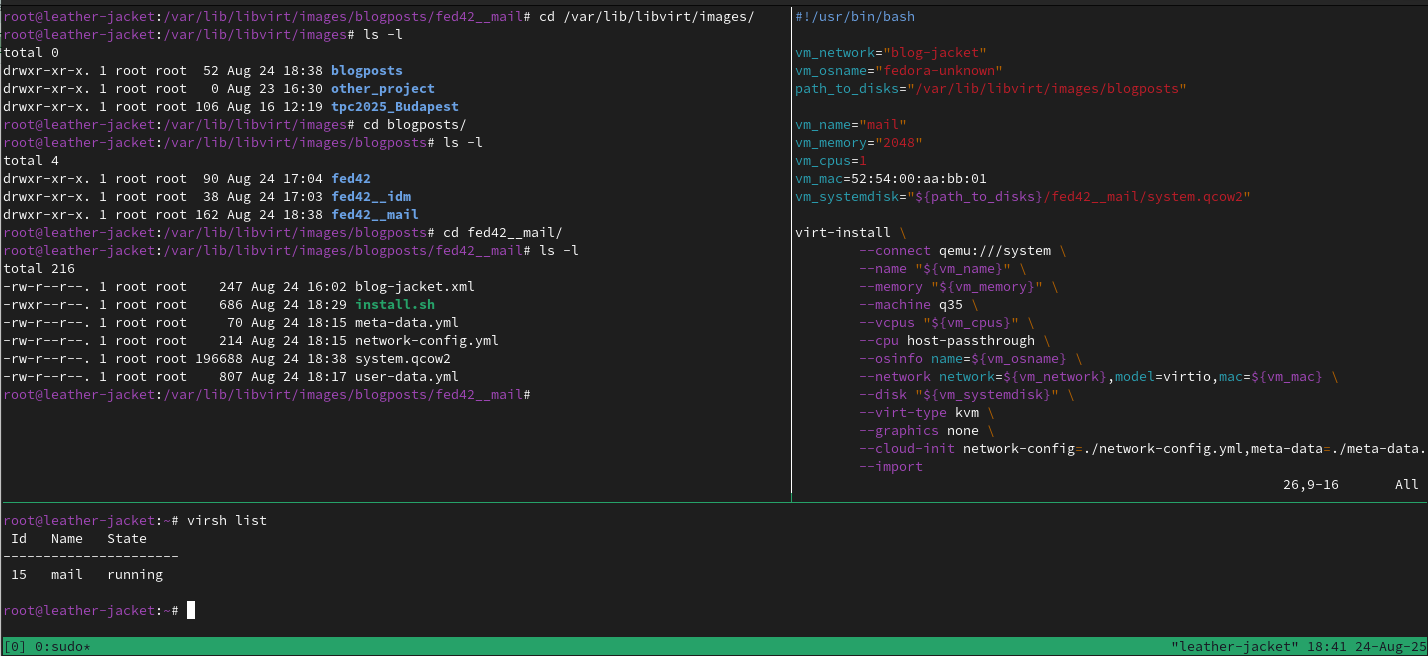
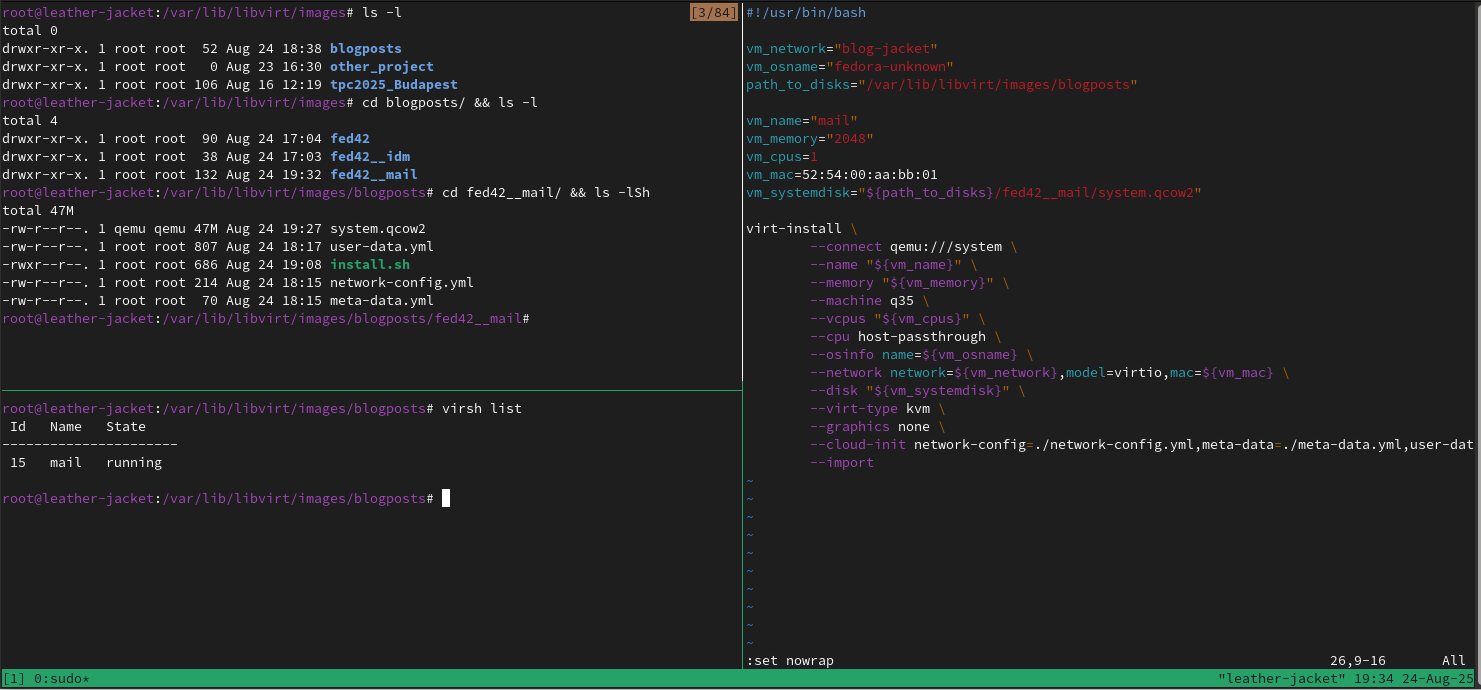
fix images and parag about network

diff --git a/posts/bare_libvirtd/index.html b/posts/bare_libvirtd/index.html
@@ -216,7 +216,24 @@ to accomplish so, looks like the following:</p>
 </span></span><span class="line"><span class="cl">virsh net-autostart blog-jacket
 </span></span></code></pre></div></li>
 </ol>
-<h4 id="create-a-new-virtual-machine">create a new virtual machine</h4>
+<p>I want to be in control of each virtual machine&rsquo;s IP address, and this
+is doable in a number of ways, either with DHCP reservations based on MAC address
+inside the libvirt network&rsquo;s definition, or by just claiming static IP
+addresses inside the virtual machine&rsquo;s network stack.</p>
+<p>We can do either since we are in control of both the MAC address and
+first boot parameters that influence the network configuration.</p>
+<p>My blog-jacket.xml file looks like the following:</p>
+<div class="highlight"><pre tabindex="0" class="chroma"><code class="language-xml" data-lang="xml"><span class="line"><span class="cl"><span class="nt">&lt;network&gt;</span>
+</span></span><span class="line"><span class="cl">  <span class="nt">&lt;name&gt;</span>blog-jacket<span class="nt">&lt;/name&gt;</span>
+</span></span><span class="line"><span class="cl">  <span class="nt">&lt;forward</span> <span class="na">mode=</span><span class="s">&#39;nat&#39;</span><span class="nt">&gt;</span>
+</span></span><span class="line"><span class="cl">    <span class="nt">&lt;nat&gt;</span>
+</span></span><span class="line"><span class="cl">      <span class="nt">&lt;port</span> <span class="na">start=</span><span class="s">&#39;1024&#39;</span> <span class="na">end=</span><span class="s">&#39;65535&#39;</span><span class="nt">/&gt;</span>
+</span></span><span class="line"><span class="cl">    <span class="nt">&lt;/nat&gt;</span>
+</span></span><span class="line"><span class="cl">  <span class="nt">&lt;/forward&gt;</span>
+</span></span><span class="line"><span class="cl">  <span class="nt">&lt;bridge</span> <span class="na">name=</span><span class="s">&#39;virbr2&#39;</span> <span class="na">stp=</span><span class="s">&#39;on&#39;</span> <span class="na">delay=</span><span class="s">&#39;0&#39;</span><span class="nt">/&gt;</span>
+</span></span><span class="line"><span class="cl">  <span class="nt">&lt;ip</span> <span class="na">address=</span><span class="s">&#39;192.168.126.1&#39;</span> <span class="na">netmask=</span><span class="s">&#39;255.255.255.0&#39;</span> <span class="nt">/&gt;</span>
+</span></span><span class="line"><span class="cl"><span class="nt">&lt;/network&gt;</span>
+</span></span></code></pre></div><h4 id="create-a-new-virtual-machine">create a new virtual machine</h4>
 <p>We&rsquo;re starting from the point where you have a qcow2 disk for your operating system,
 placed inside your project&rsquo;s path (e.g. /var/lib/libvirt/images/blogposts)
 under a (e.g.) fed42/ directory. The rest of the steps are the same for each virtual machine:</p>
